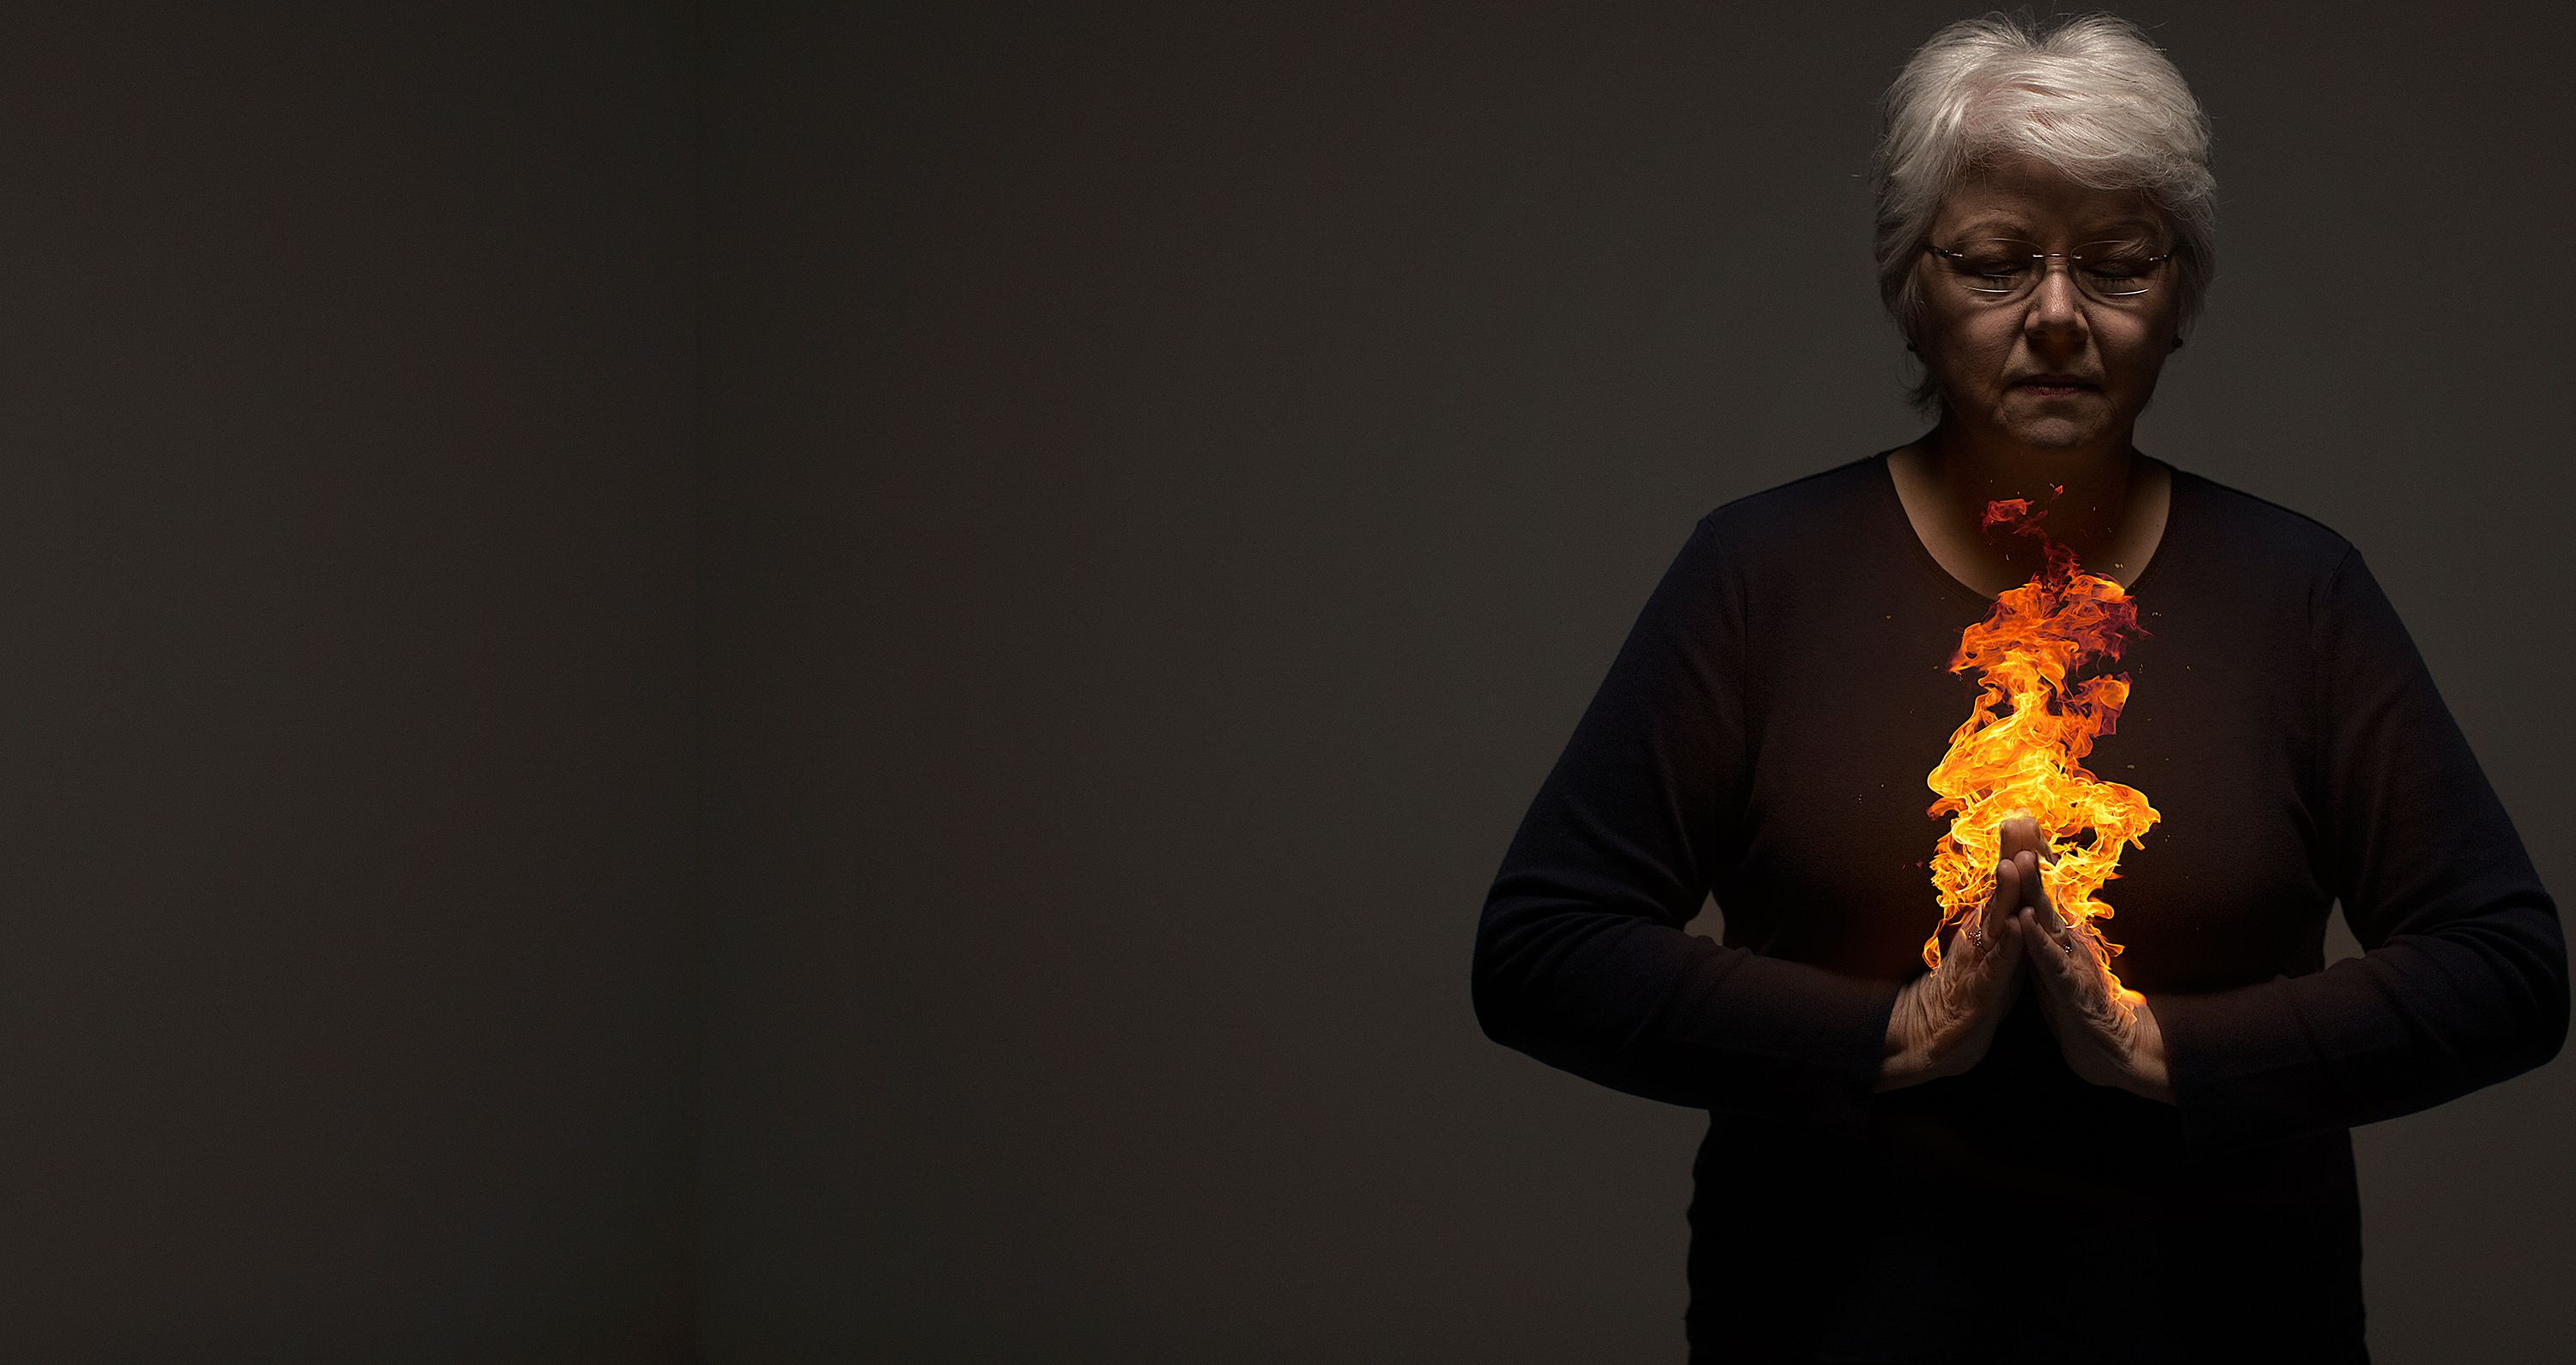
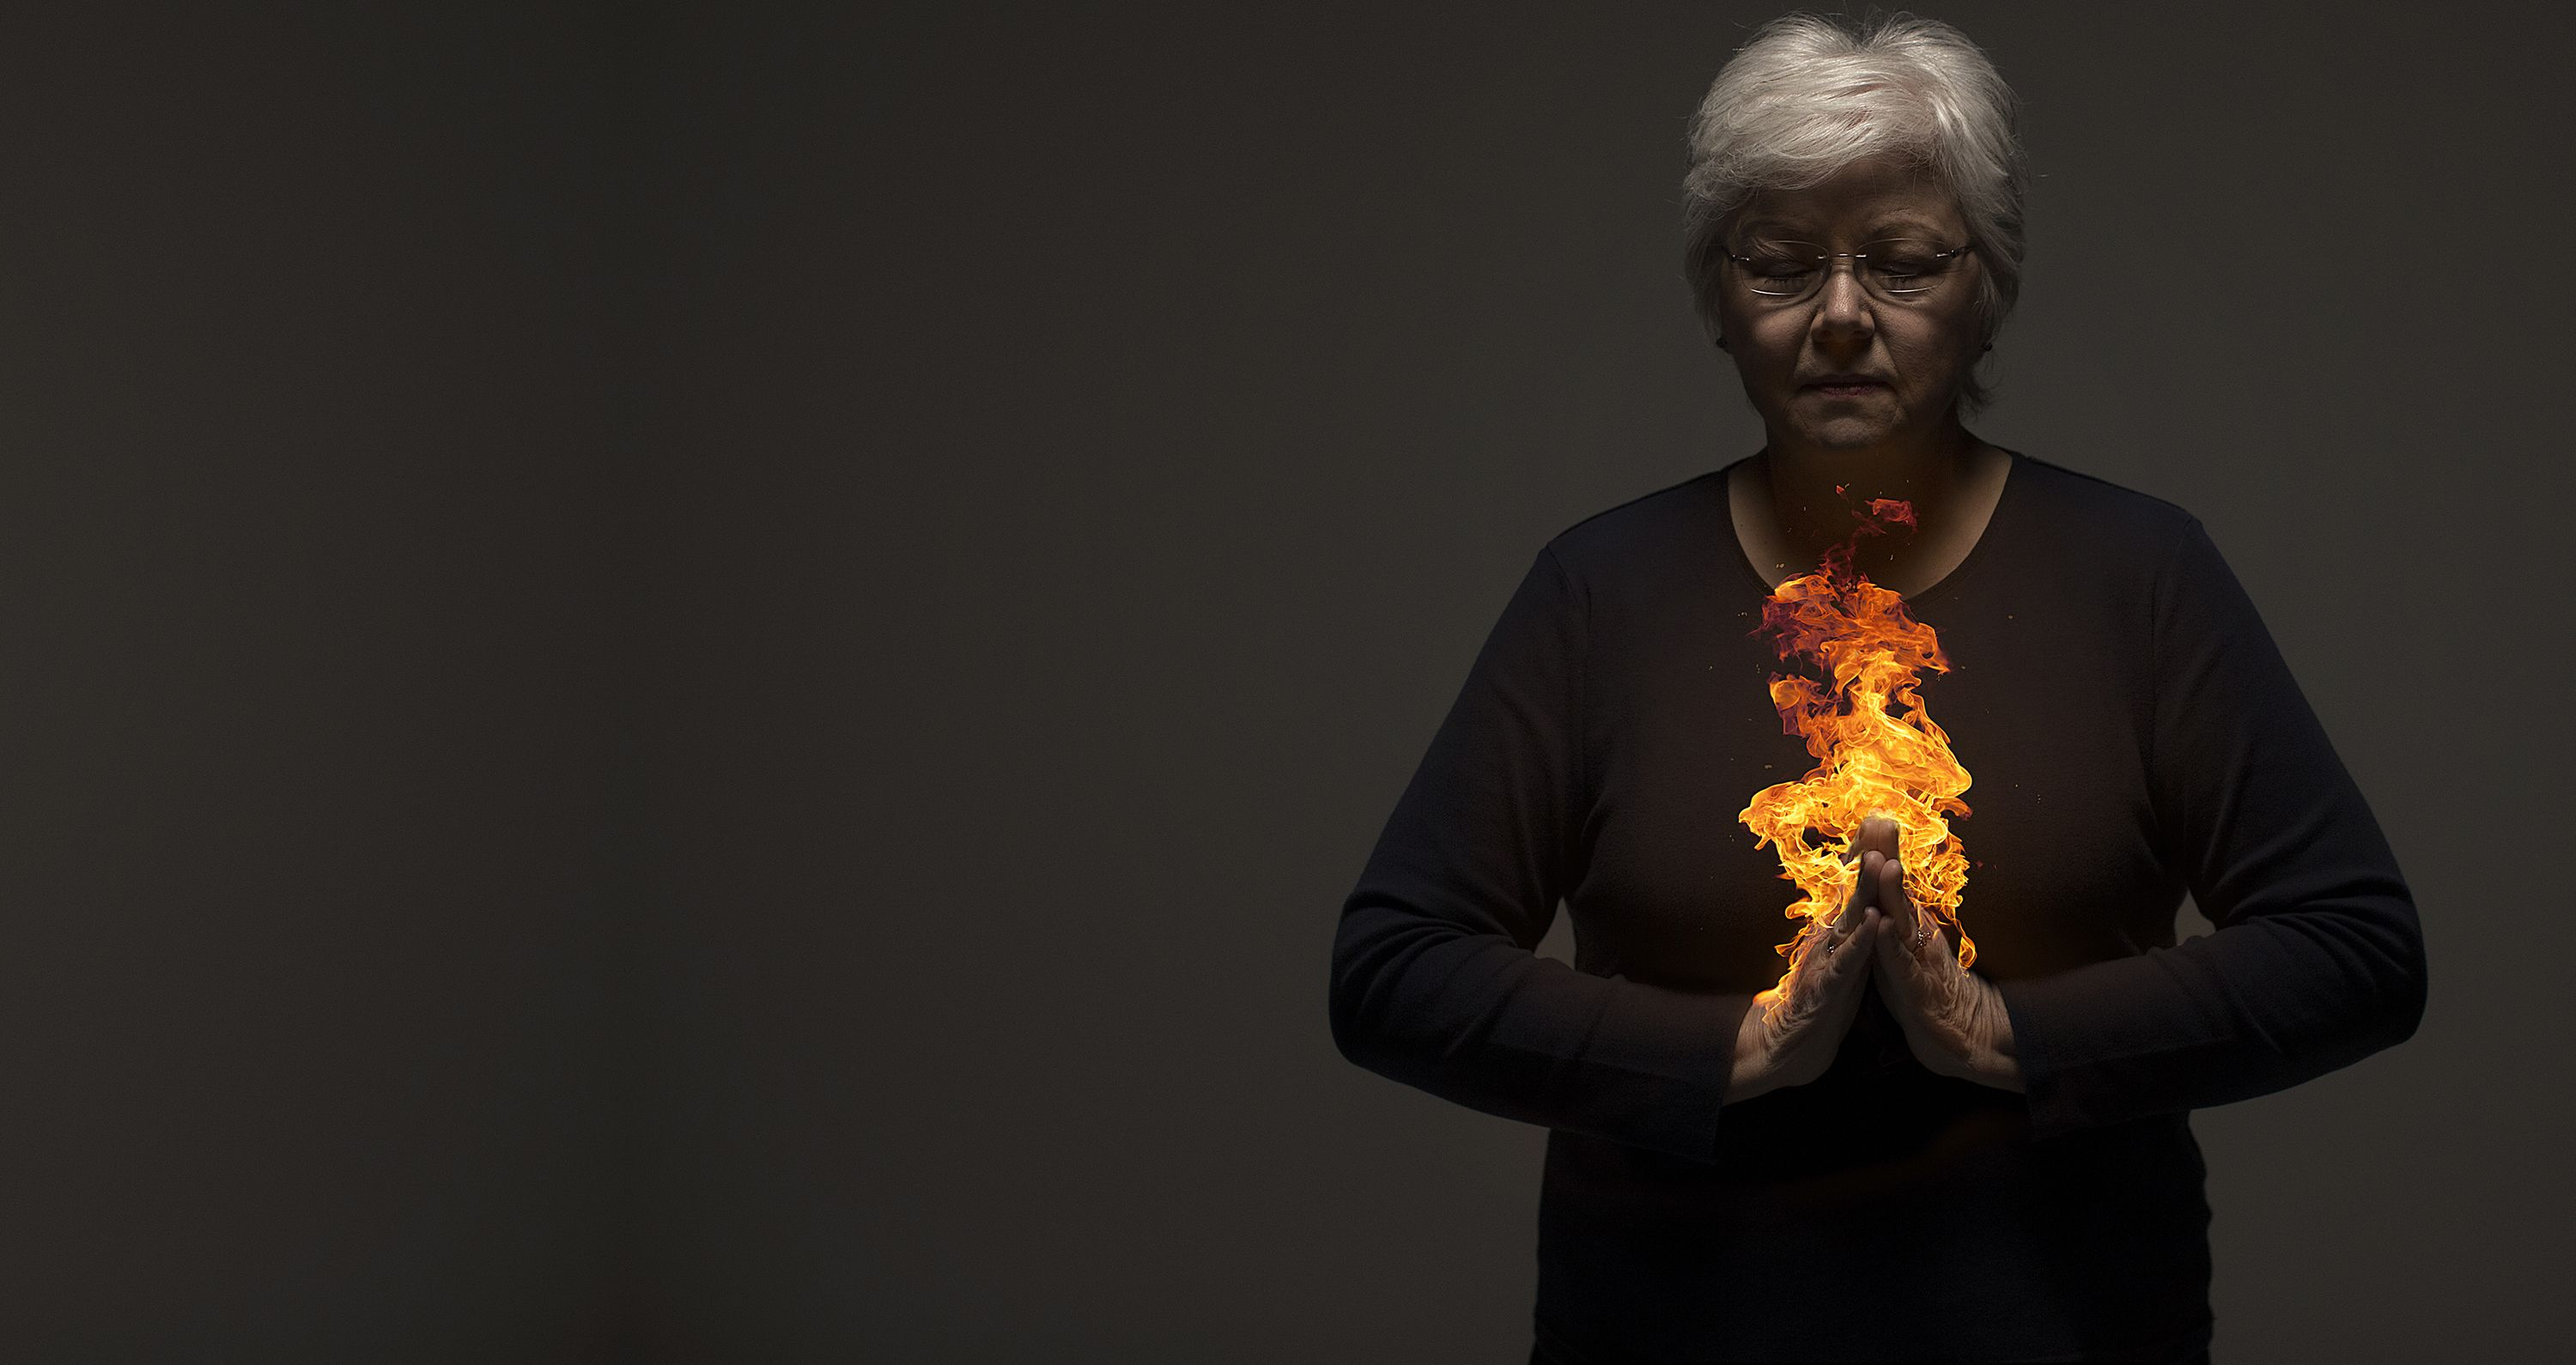
made homepage tweaks for giddy

Changed region(s): [[0.496, 0.0, 1.0, 1.0]]

diff --git a/_sass/pages/_home.scss b/_sass/pages/_home.scss
@@ -93,6 +93,10 @@
       padding-bottom: 12em;
     }
     
+    .hero-inner {
+      margin-left: 1em;
+    }
+    
     .hero-copy {
       margin: 2.5em auto 5em;
       text-align: left;
